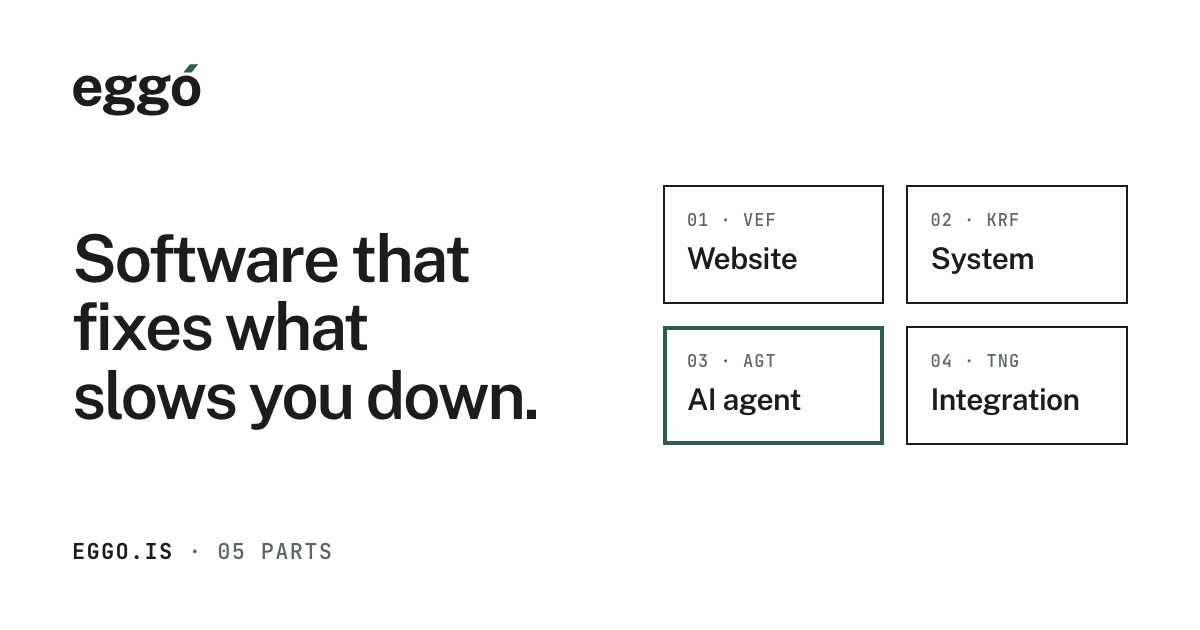
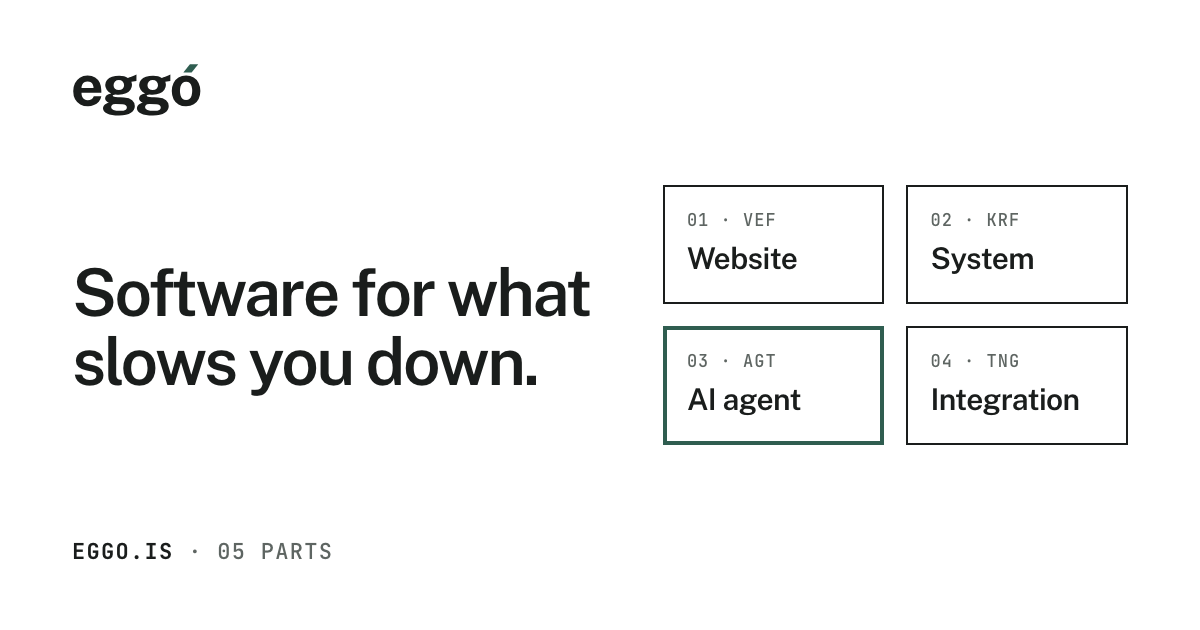
copy: shorter hero headline that fits two lines on phones

Changed region(s): [[0.0617, 0.3619, 0.4933, 0.6937]]

diff --git a/src/i18n/is.ts b/src/i18n/is.ts
@@ -53,8 +53,8 @@ export const is = {
   hero: {
     eyebrow: "Hugbúnaðarlausnir",
     status: "Laus fyrir ný verkefni",
-    titleStart: "Hugbúnaður sem leysir ",
-    titleEm: "það sem tefur þig.",
+    titleStart: "Hugbúnaður fyrir ",
+    titleEm: "það sem tefur.",
     sub: "Það sem tekur tíma í dag gengur sjálft á morgun.",
     lead: "Vefsíður, innri kerfi, AI agents og tengingar fyrir lítil og meðalstór fyrirtæki, og lagfæringar sem taka einn dag. Fast verð, eitthvað nothæft í hverri viku, og þú átt lausnina.",
     cta: "Hafa samband",

diff --git a/src/i18n/en.ts b/src/i18n/en.ts
@@ -23,7 +23,7 @@ export const en: Dict = {
   hero: {
     eyebrow: "Software solutions",
     status: "Taking new projects",
-    titleStart: "Software that fixes ",
+    titleStart: "Software for ",
     titleEm: "what slows you down.",
     sub: "What takes time today runs itself tomorrow.",
     lead: "Websites, internal systems, AI agents and integrations for small and medium businesses, and fixes that take a day. Fixed price, something usable every week, and you own the solution.",

diff --git a/scripts/verify-prerender.ts b/scripts/verify-prerender.ts
@@ -5,8 +5,8 @@
 import { readFileSync } from "node:fs";
 
 const pages: Record<string, { lang: string; h1: string }> = {
-  "dist/client/index.html": { lang: "is", h1: "Hugbúnaður sem leysir" },
-  "dist/client/en/index.html": { lang: "en", h1: "Software that fixes" },
+  "dist/client/index.html": { lang: "is", h1: "Hugbúnaður fyrir" },
+  "dist/client/en/index.html": { lang: "en", h1: "Software for" },
 };
 
 let failed = false;

diff --git a/docs/DESIGN-SYSTEM.md b/docs/DESIGN-SYSTEM.md
@@ -10,7 +10,7 @@ Shipped 2026-10-15. Same content, structure, symptom picker and accessibility as
 - **Hero figure** (`BuildFigure`, "Mynd 1 — dæmigerð smíði"): the 2026.10 assembly diagram, redrawn in this palette: 1px ink boxes, mono codes and details, Public Sans names, a dashed 05 with an accent "?". Wires draw in once on load. Parts in the suggestion get an accent outline and the rest dim to 32%. A vertical chain on phones. `aria-hidden`: the services list says the same in words.
 - **Motion** (one thread, expo-out `cubic-bezier(.16,1,.3,1)`): ticking a symptom draws the tick (180ms), unrolls the new line into the summary from its top edge (320ms, clip-path + 6px), and lights that part's square in its drawing down the page (400ms), so the picker, the summary and the services list read as one thing. Buttons nudge their arrow 3px on hover. The theme switch reveals the new theme as a circle from the switch (View Transitions, 520ms). Reduced motion removes all of it.
 - **Browser surfaces:** selection, caret, native controls and scrollbars take the palette (`--selection` on body feeds `::selection` in global.css).
-- **Copy:** the road metaphors are swapped for plain words ("Hugbúnaður sem leysir það sem tefur þig.", "Það sem ég smíða", "Svona vinn ég", "Tillaga").
+- **Copy:** the road metaphors are swapped for plain words ("Hugbúnaður fyrir það sem tefur.", "Það sem ég smíða", "Svona vinn ég", "Tillaga").
 - **Phone suggestion bar** (`PhoneBar`): once something is ticked, a bar at the bottom shows "Tillaga · n", the part names and "Fá verð →" while neither the summary card nor the work order is on screen. Unmounted, not hidden, when not needed.
 - **Wordmark** (`Wordmark`, geometry in `src/design/wordmark.ts`): "eggo" drawn from Public Sans Bold outlines, tracked in by 70 units, with the ó's accent replaced by a slanted block in the accent colour (chosen 2026-10-15 over plain, tight, boxed and mark-plus-word versions). Letters take `currentColor`; the block goes `currentColor` in forced colours. 26px tall in the top bar, 24 on phones. No separate symbol: the favicon's 2×2 of boxes does that job. The geometry is generated with fontTools; regenerate it if the font file changes.
 - **Share images and icons:** `bun scripts/brand-images.ts` renders the OG images (headline plus the four parts as boxes, 03 in the accent), the social logo and the touch icon from the dictionaries, light tokens and self-hosted fonts. The favicon is the same 2×2 of boxes with one filled, and follows the OS theme.
